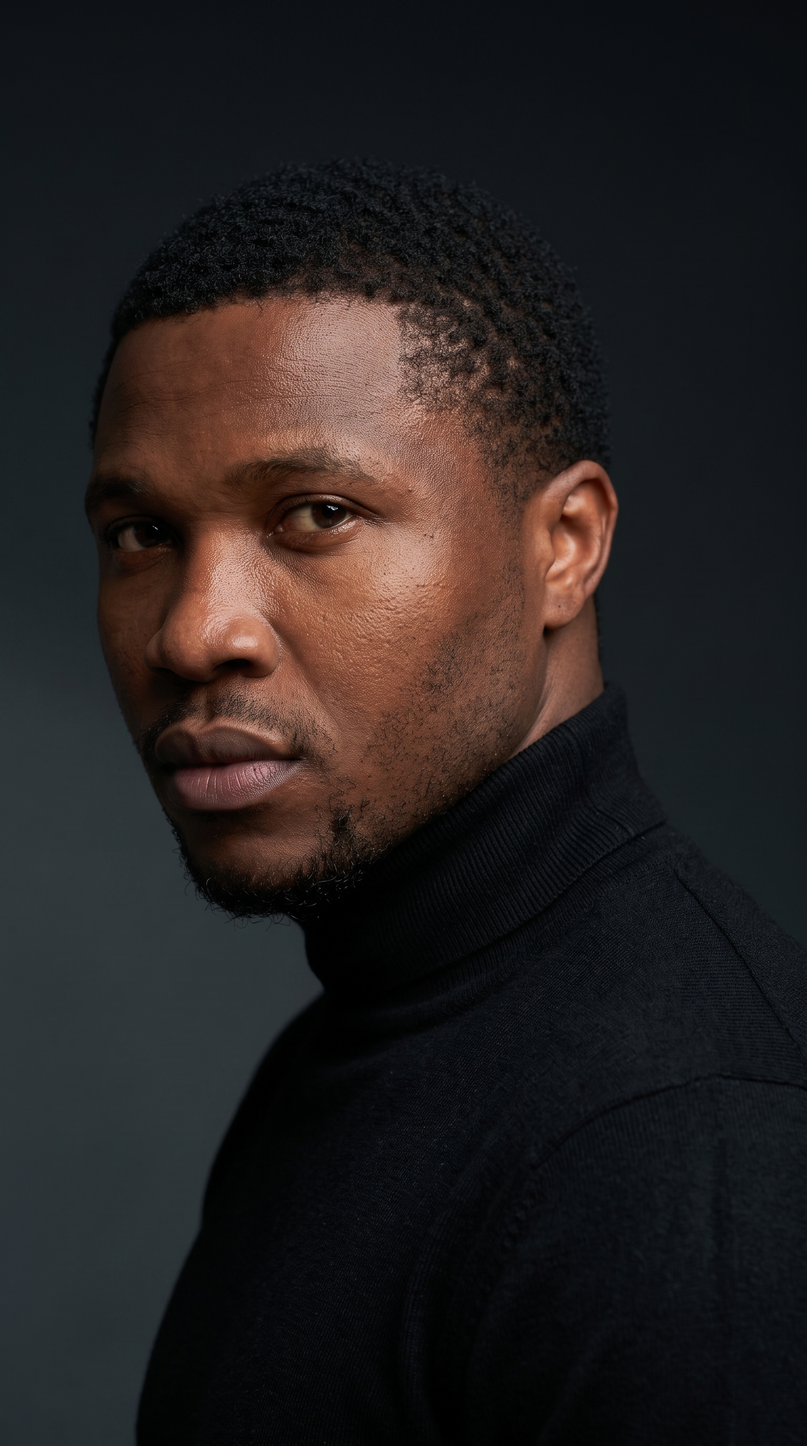
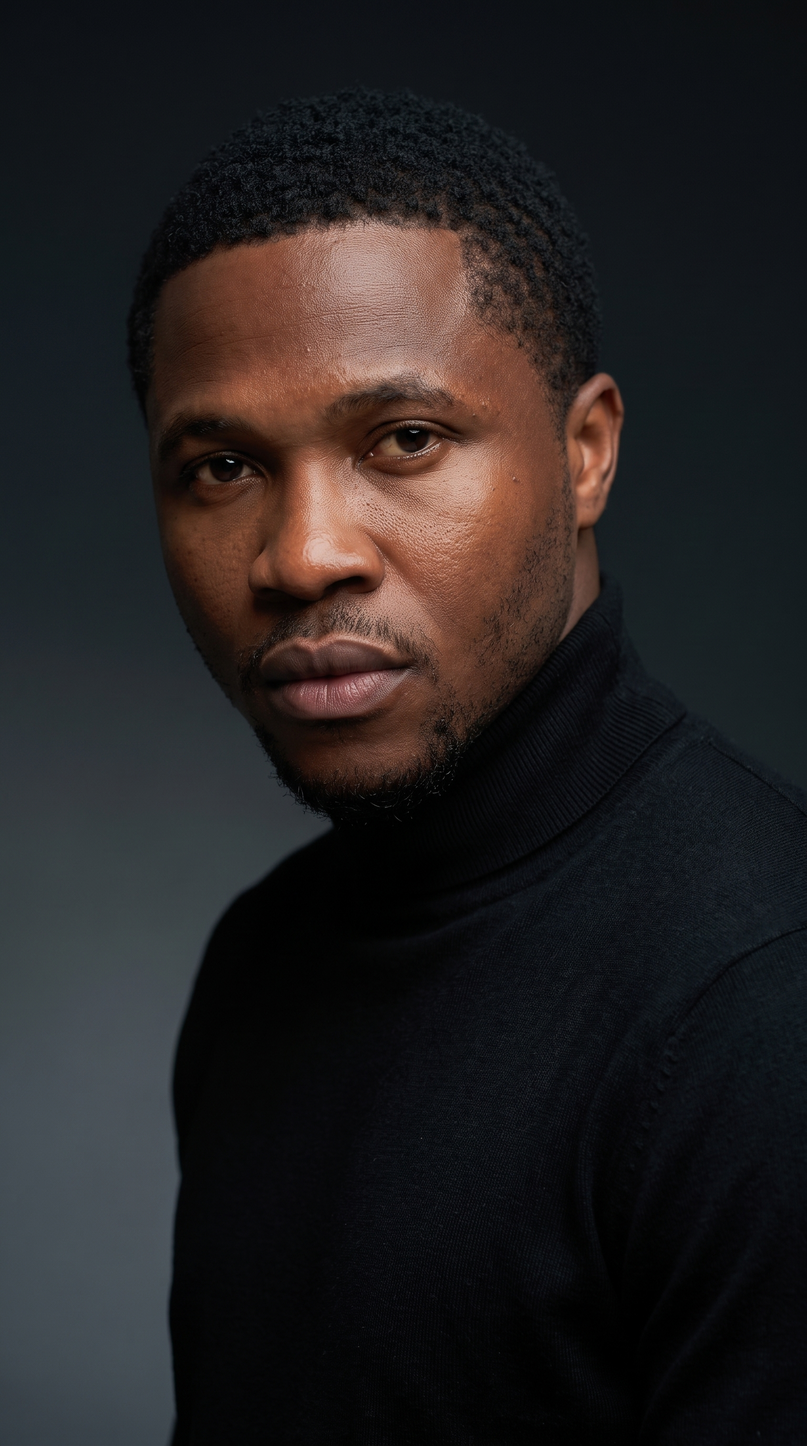
Corrige textos, degrade mobile, logotipo, animações e texto vazando da tela

Changed region(s): [[0.0, 0.0938, 0.7812, 1.0]]

diff --git a/css/style.css b/css/style.css
@@ -341,7 +341,7 @@ button {
   width: 50%;
   height: auto;
   position: relative;
-  top: -20px;
+  top: -40px;
   /* ajuste esse valor: quanto mais negativo, mais sobe */
   animation: float 3s ease-in-out infinite;
 }
@@ -429,7 +429,10 @@ button {
 ═══════════════════════════════════════════════════════ */
 .marquee-strip {
   overflow: hidden;
-  background: var(--text);
+  background-image: url('/assets/backgroundsession.png');
+  background-size: cover;
+  background-position: center;
+  background-repeat: no-repeat;
   padding: 0.85rem 0;
   white-space: nowrap;
 }
@@ -445,9 +448,10 @@ button {
   font-weight: 500;
   letter-spacing: 0.08em;
   text-transform: uppercase;
-  color: var(--bg);
+  color: #ffffff65;
   flex-shrink: 0;
 }
+
 
 @keyframes marquee {
   from {
@@ -548,7 +552,7 @@ button {
   position: relative;
   aspect-ratio: 4/5;
   overflow: hidden;
-  border-radius: 4px;
+  border-radius: 25px;
   background: var(--bg-3);
 }
 
@@ -664,6 +668,45 @@ button {
 }
 
 /* Para telas de celular */
+
+
+@media (max-width: 600px) {
+  .works-title-row {
+    flex-direction: column;
+    gap: 1rem;
+    padding-left: 1rem;
+    padding-right: 1rem;
+  }
+
+  .works-subtitle {
+    max-width: 100%;
+    flex-shrink: 1;
+    padding-top: 0;
+    margin: 0 auto;
+
+    text-align: left;
+  }
+}
+
+
+@media (max-width: 600px) {
+  .about-photo {
+    object-position: center 20%;
+    /* ajuste esse valor: 0% mostra mais o topo (cabeça), 100% mostra mais a base (corpo) */
+  }
+}
+
+
+
+
+@media (max-width: 600px) {
+  .about {
+    background-image: linear-gradient(rgba(0, 0, 0, 0.049), rgba(0, 0, 0, 0)),
+      url('/assets/backgroundsession_vertical.png');
+
+  }
+}
+
 @media (max-width: 600px) {
   .works-subtitle {
     max-width: 90%;

diff --git a/index.html b/index.html
@@ -61,7 +61,7 @@
       <div class="hero-reg reveal-right">®</div>
     </div>
 
-    <div class="hero-name reveal-up"> <img src="assets/bright_logo.svg" alt=""> </div>
+    <div class="hero-name reveal-up"> <img src="assets/logotipo.png" alt=""> </div>
 
     <div class="scroll-indicator">
       <div class="scroll-line"></div>
@@ -145,8 +145,8 @@
         <div class="section-label reveal-fade">— Trabalhos</div>
         <div class="works-title-row">
           <h2 class="section-title reveal-up">Projetos de que<br><span>nos orgulhamos.</span></h2>
-          <p class="works-subtitle reveal-fade">Uma coleção selecionada de projetos que demonstram a minha abordagem ao
-            design — combinando criatividade com estratégia.</p>
+          <p class="works-subtitle reveal-fade">Alguns projetos selecionados que demonstram a minha capacidade em
+            resolver problemas com o design</p>
         </div>
       </div>
 
